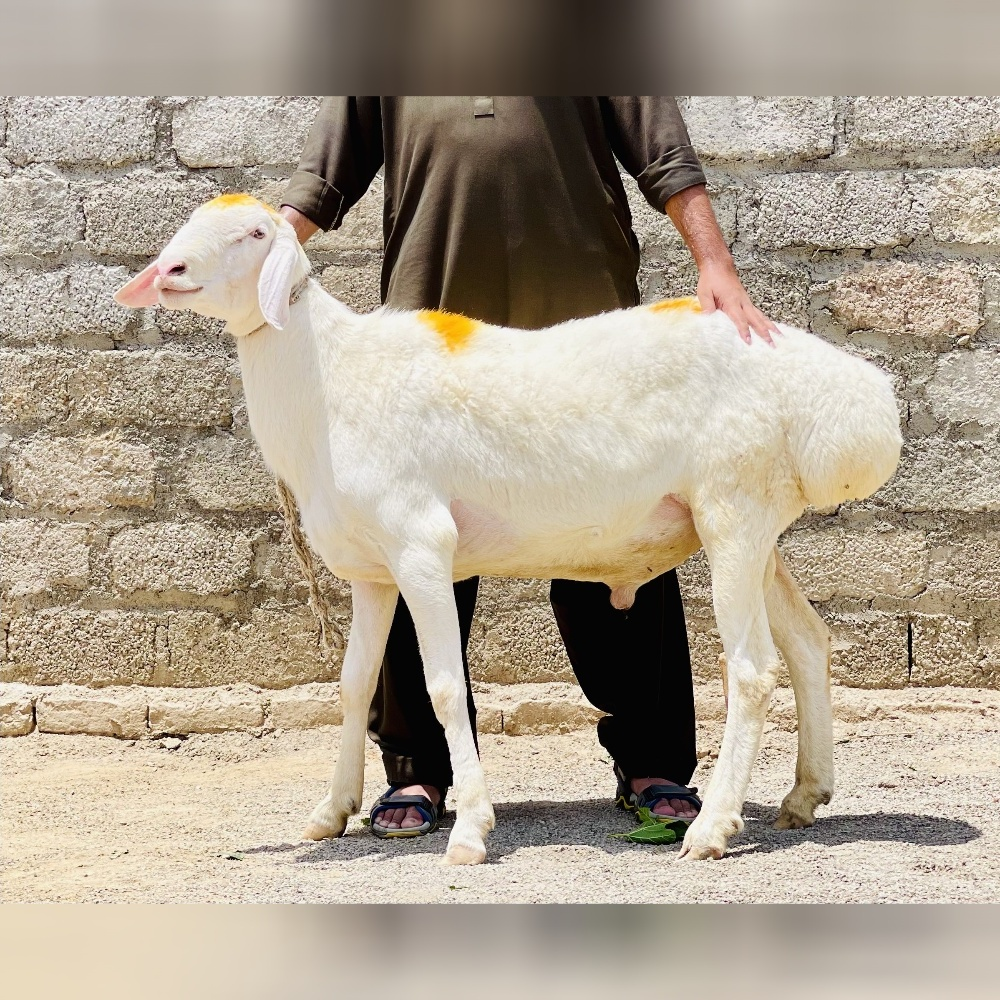
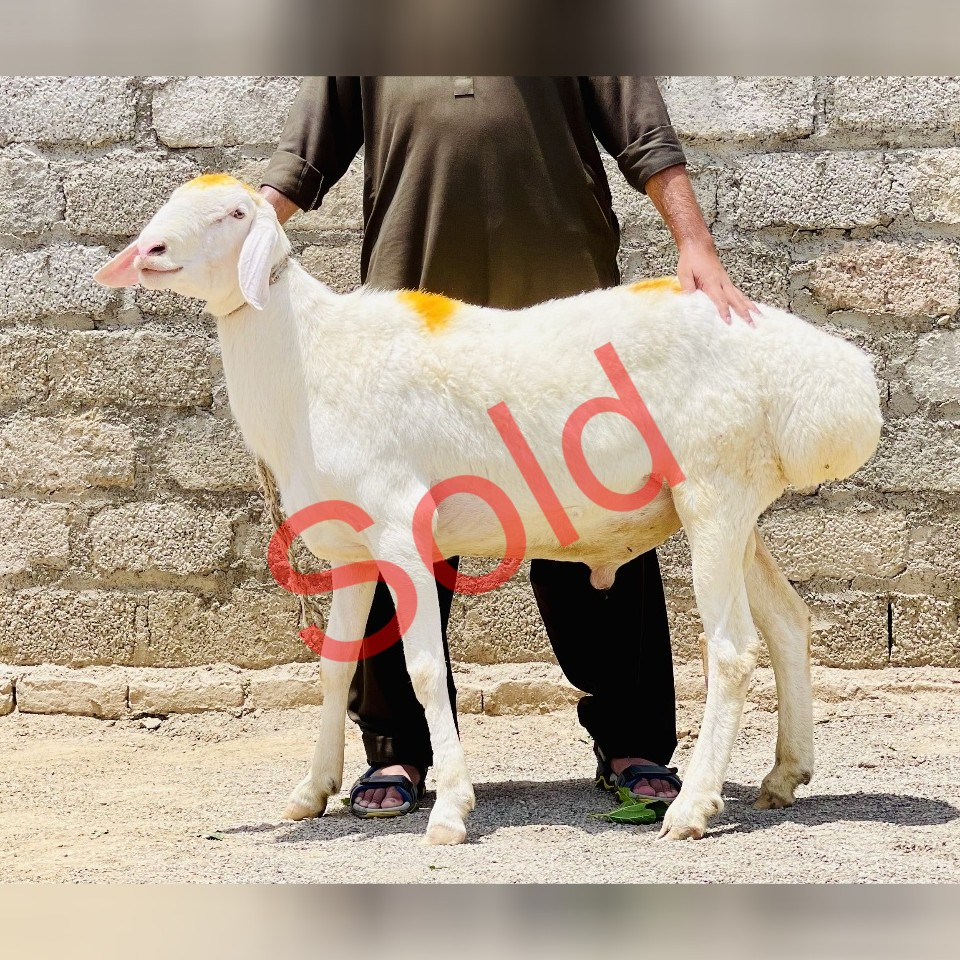
Rambo sold

diff --git a/components/catalogus.tsx b/components/catalogus.tsx
@@ -1,6 +1,7 @@
 const bulls = [
   {
     code: "B01",
+    availability: "In stock",
     breed: "Dhanni",
     category: "Bull",
     imageUrl: "/assets/img/catalogue/bull/01.jpg",
@@ -12,6 +13,7 @@ const bulls = [
   },
   {
     code: "B02",
+    availability: "In stock",
     breed: "Dhanni",
     category: "Bull",
     imageUrl: "/assets/img/catalogue/bull/02.jpg",
@@ -23,6 +25,7 @@ const bulls = [
   },
   {
     code: "B03",
+    availability: "In stock",
     breed: "Desi",
     category: "Bull",
     imageUrl: "/assets/img/catalogue/bull/03.jpg",
@@ -34,6 +37,7 @@ const bulls = [
   },
   {
     code: "B04",
+    availability: "In stock",
     breed: "Desi cross",
     category: "Bull",
     imageUrl: "/assets/img/catalogue/bull/04.jpg",
@@ -45,6 +49,7 @@ const bulls = [
   },
   {
     code: "B05",
+    availability: "In stock",
     breed: "Sahiwal",
     category: "Bull",
     imageUrl: "/assets/img/catalogue/bull/05.jpg",
@@ -56,6 +61,7 @@ const bulls = [
   },
   {
     code: "B06",
+    availability: "In stock",
     breed: "Sahiwal",
     category: "Bull",
     imageUrl: "/assets/img/catalogue/bull/06.jpg",
@@ -67,6 +73,7 @@ const bulls = [
   },
   {
     code: "B07",
+    availability: "In stock",
     breed: "Sahiwal",
     category: "Bull",
     imageUrl: "/assets/img/catalogue/bull/07.jpg",
@@ -78,6 +85,7 @@ const bulls = [
   },
   {
     code: "B08",
+    availability: "In stock",
     breed: "Sahiwal",
     category: "Bull",
     imageUrl: "/assets/img/catalogue/bull/08.jpg",
@@ -92,6 +100,7 @@ const bulls = [
 const goats = [
   {
     code: "G01",
+    availability: "In stock",
     breed: "Rajanpuri",
     category: "Goat",
     imageUrl: "/assets/img/catalogue/goats/101.jpg",
@@ -103,6 +112,7 @@ const goats = [
   },
   {
     code: "G02",
+    availability: "In stock",
     breed: "Rajanpuri",
     category: "Goat",
     imageUrl: "/assets/img/catalogue/goats/102.jpg",
@@ -114,6 +124,7 @@ const goats = [
   },
   {
     code: "G03",
+    availability: "In stock",
     breed: "Desi",
     category: "Goat",
     imageUrl: "/assets/img/catalogue/goats/103.jpg",
@@ -125,6 +136,7 @@ const goats = [
   },
   {
     code: "G04",
+    availability: "In stock",
     breed: "Makhi Cheena",
     category: "Goat",
     imageUrl: "/assets/img/catalogue/goats/104.jpg",
@@ -136,6 +148,7 @@ const goats = [
   },
   {
     code: "G05",
+    availability: "In stock",
     breed: "Makhi Cheena",
     category: "Goat",
     imageUrl: "/assets/img/catalogue/goats/105.jpg",
@@ -147,6 +160,7 @@ const goats = [
   },
   {
     code: "G06",
+    availability: "In stock",
     breed: "Makhi Cheena",
     category: "Goat",
     imageUrl: "/assets/img/catalogue/goats/106.jpg",
@@ -158,6 +172,7 @@ const goats = [
   },
   {
     code: "G07",
+    availability: "Sold",
     breed: "Talagang",
     category: "Ram (Chakki Dumba)",
     imageUrl: "/assets/img/catalogue/goats/107.jpg",
@@ -204,7 +219,24 @@ export default function Catalogue() {
                   <div className="space-y-1">
                     <div className="mt-0">
                       <dl className="grid grid-cols-2 gap-x-4 gap-y-4">
+                      <div className="pt-2">
+                          <dt className="text-sm font-medium text-gray-500">
+                            Availability
+                          </dt>
+                          <dd className="text-base font-bold tracking-tight text-gray-900">
+                            {bull.availability}
+                           
+                          </dd>
+                        </div>
                         <div className="pt-2">
+                          <dt className="text-sm font-medium text-gray-500">
+                            Code
+                          </dt>
+                          <dd className="text-base font-bold tracking-tight text-gray-900">
+                            {bull.code} 
+                          </dd>
+                        </div>
+                        <div className="border-t-2 border-gray-100 pt-2">
                           <dt className="text-sm font-medium text-gray-500">
                             Category
                           </dt>
@@ -212,7 +244,7 @@ export default function Catalogue() {
                             {bull.category}
                           </dd>
                         </div>
-                        <div className="pt-2">
+                        <div className="border-t-2 border-gray-100 pt-2">
                           <dt className="text-sm font-medium text-gray-500">
                             Breed
                           </dt>
@@ -285,13 +317,29 @@ export default function Catalogue() {
                       <dl className="grid grid-cols-2 gap-x-4 gap-y-4">
                         <div className="pt-2">
                           <dt className="text-sm font-medium text-gray-500">
+                            Availability
+                          </dt>
+                          <dd className="text-base font-bold tracking-tight text-gray-900">
+                            {goat.availability}
+                          </dd>
+                        </div>
+                        <div className="pt-2">
+                          <dt className="text-sm font-medium text-gray-500">
+                            Code
+                          </dt>
+                          <dd className="text-base font-bold tracking-tight text-gray-900">
+                            {goat.code}
+                          </dd>
+                        </div>
+                        <div className="border-t-2 border-gray-100 pt-2">
+                          <dt className="text-sm font-medium text-gray-500">
                             Category
                           </dt>
                           <dd className="text-base font-bold tracking-tight text-gray-900">
                             {goat.category}
                           </dd>
                         </div>
-                        <div className="pt-2">
+                        <div className="border-t-2 border-gray-100 pt-2">
                           <dt className="text-sm font-medium text-gray-500">
                             Breed
                           </dt>
